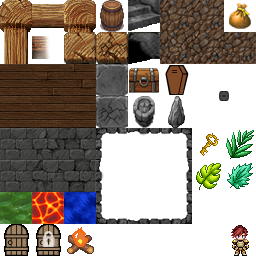
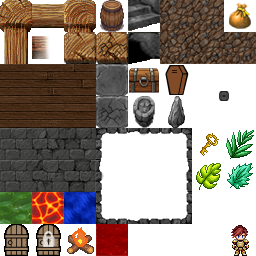
added blood tile image

Changed region(s): [[0.375, 0.875, 0.5, 1.0]]

diff --git a/src/tile-image-enum.hpp b/src/tile-image-enum.hpp
@@ -17,6 +17,7 @@ namespace castlecrawl
         Campfire,
         Rock,
         RockWeak,
+        Blood,
         Lava,
         Water,
         Slime,
@@ -86,6 +87,7 @@ namespace castlecrawl
             case 'a':    { return TileImage::Campfire;           }
             case 'r':    { return TileImage::Rock;               }
             case 'R':    { return TileImage::RockWeak;           }
+            case 'e':    { return TileImage::Blood;              }
             case 'l':    { return TileImage::Lava;               }
             case 'w':    { return TileImage::Water;              }
             case 'g':    { return TileImage::Slime;              }
@@ -154,6 +156,7 @@ namespace castlecrawl
             case TileImage::Campfire:           { return sf::IntRect( { 64,224},{32,32}); }
             case TileImage::Rock:               { return sf::IntRect( { 96, 64},{32,32}); }
             case TileImage::RockWeak:           { return sf::IntRect( { 96, 96},{32,32}); }
+            case TileImage::Blood:              { return sf::IntRect( { 96,224},{32,32}); }
             case TileImage::Lava:               { return sf::IntRect( { 32,192},{32,32}); }
             case TileImage::Water:              { return sf::IntRect( { 64,192},{32,32}); }
             case TileImage::Slime:              { return sf::IntRect( {  0,192},{32,32}); }

diff --git a/src/state-editor.cpp b/src/state-editor.cpp
@@ -265,6 +265,7 @@ namespace castlecrawl
         else if (keyScancode == sf::Keyboard::Scancode::Period)    { editMap(t_context, '.', '.'); }
         else if (keyScancode == sf::Keyboard::Scancode::A)         { editMap(t_context, 'a', 'a'); }
         else if (keyScancode == sf::Keyboard::Scancode::D)         { editMap(t_context, 'D', 'd'); }
+        else if (keyScancode == sf::Keyboard::Scancode::E)         { editMap(t_context, 'e', 'e'); }
         else if (keyScancode == sf::Keyboard::Scancode::S)         { editMap(t_context, 'S', 's'); }
         else if (keyScancode == sf::Keyboard::Scancode::R)         { editMap(t_context, 'R', 'r'); }
         else if (keyScancode == sf::Keyboard::Scancode::L)         { editMap(t_context, 'l', 'l'); }
@@ -472,6 +473,7 @@ namespace castlecrawl
             case 's': { return "Stairs Down"; }
             case 'r': { return "Rock"; }
             case 'R': { return "Weak Rock"; }
+            case 'e': { return "Blood"; }
             case 'l': { return "Lava"; }
             case 'w': { return "Water"; }
             case 'g': { return "Slime"; }

diff --git a/src/map-display.cpp b/src/map-display.cpp
@@ -136,7 +136,9 @@ namespace castlecrawl
 
     void MapDisplay::appendLiquidEdgeVerts(const Context & t_context)
     {
-        auto isLiquid = [](const char ch) { return ((ch == 'l') || (ch == 'w') || (ch == 'g')); };
+        auto isLiquid = [](const char ch) {
+            return ((ch == 'l') || (ch == 'w') || (ch == 'g') || (ch == 'e'));
+        };
 
         auto validNotLiquid = [&](const char ch, const MapPos_t & pos) {
             return (!isLiquid(ch) && t_context.maps.current().isPosValid(pos));
